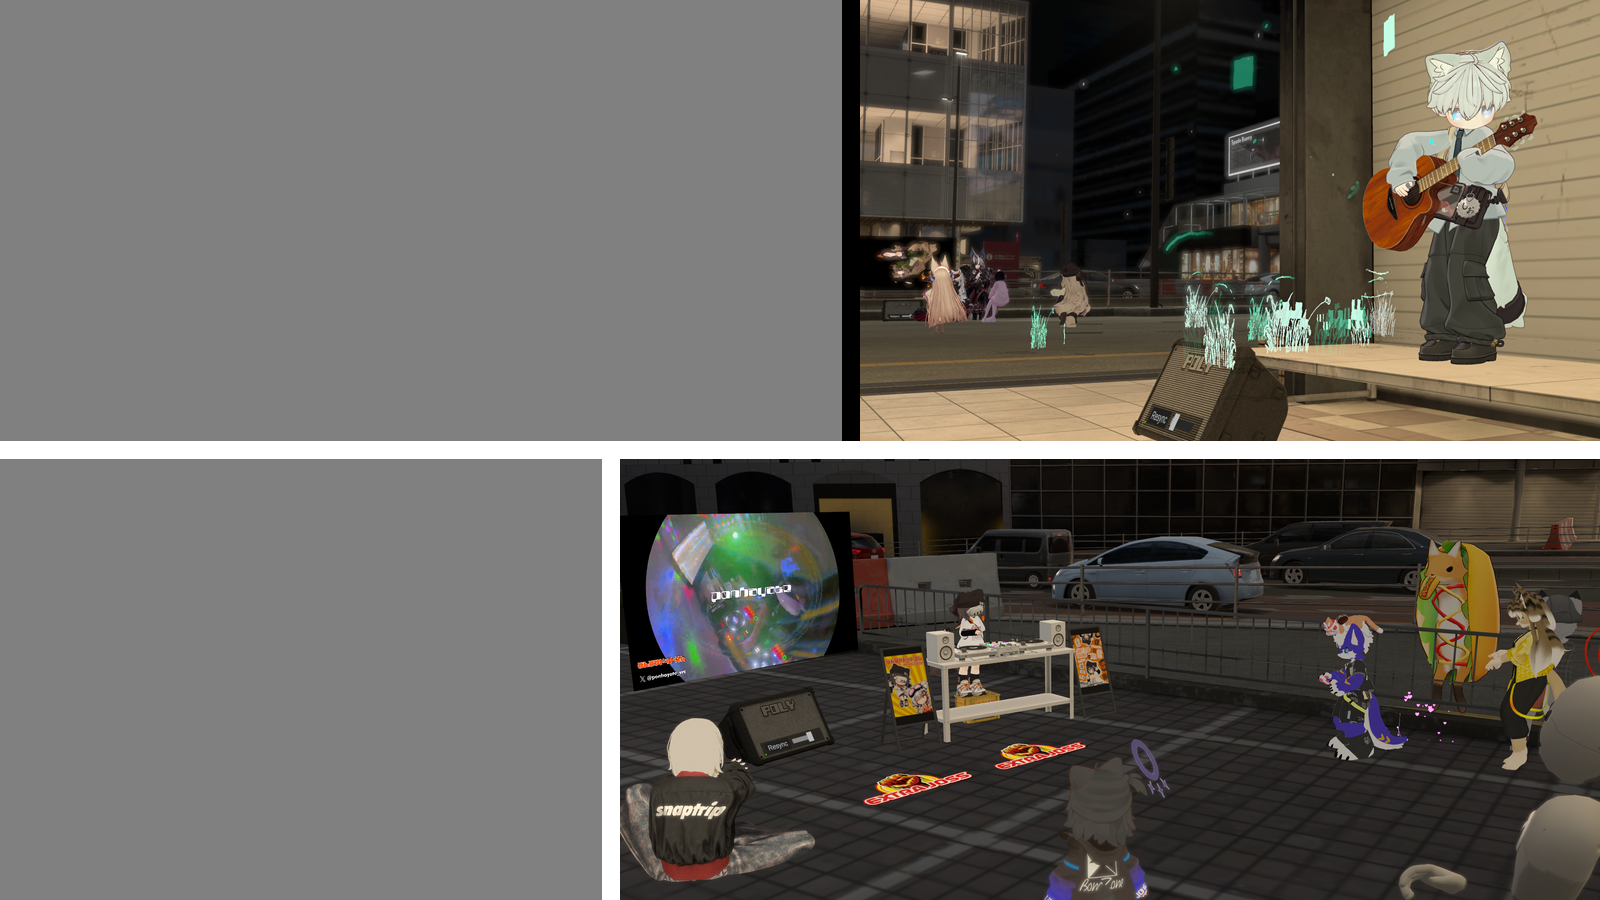
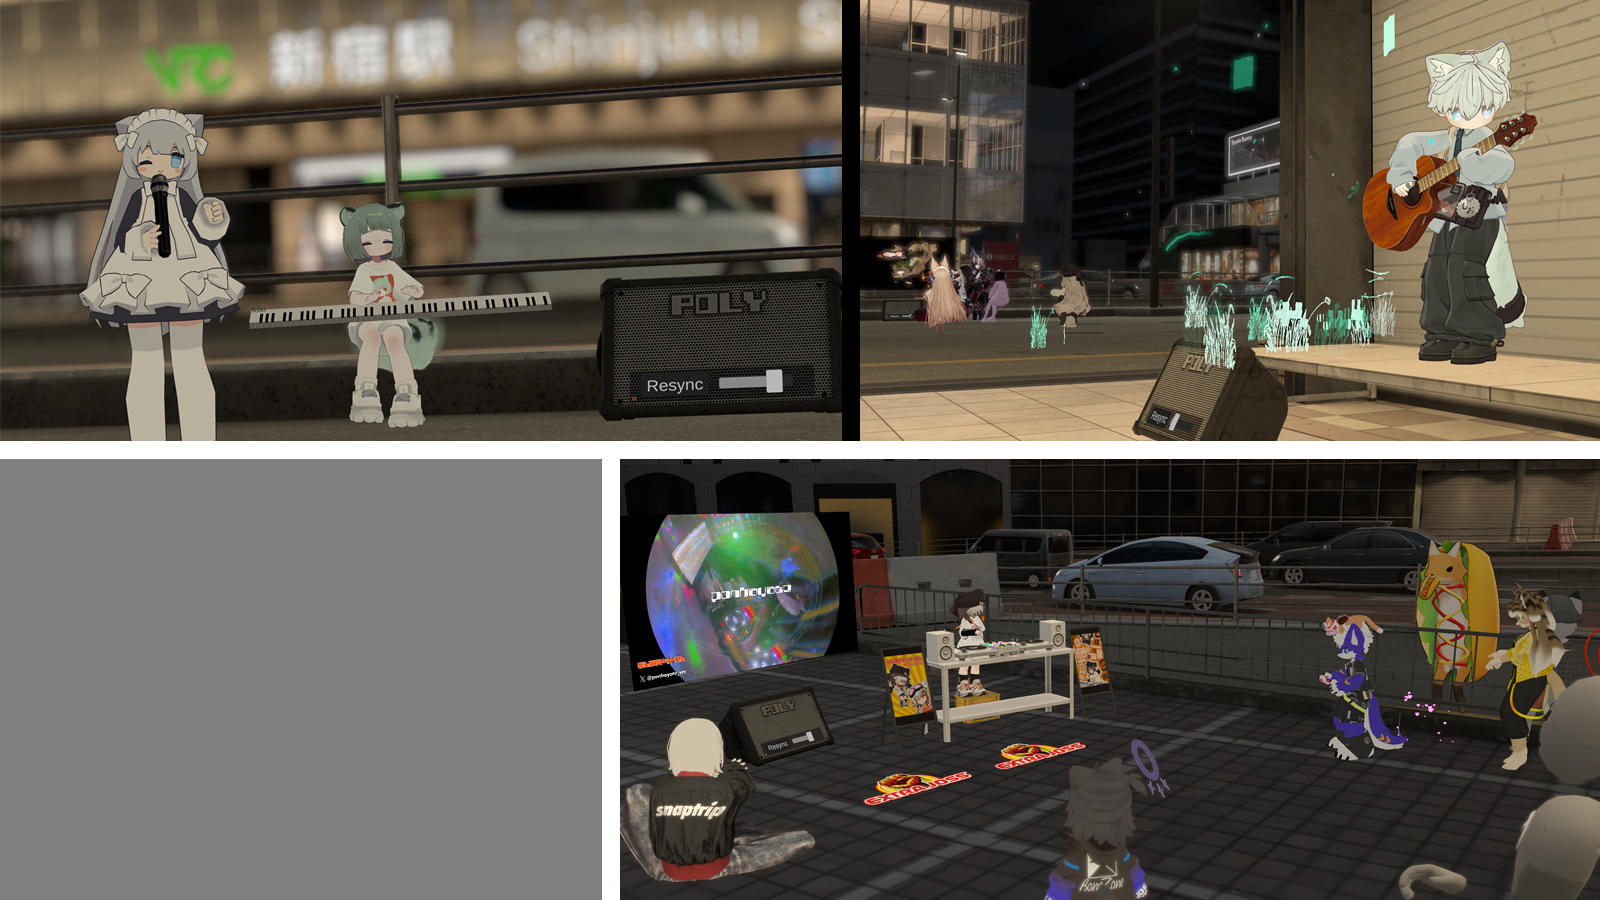
docs: 커뮤니티 갤러리 미디어 보강

Changed region(s): [[0.0, 0.0, 0.5312, 0.4978]]

diff --git a/README.ja.md b/README.ja.md
@@ -46,12 +46,12 @@
 </p>
 
 <p align="center">
-  <img src="./Docs/images/community-gallery.png" alt="ストリートライブの様子と今後追加するコミュニティ写真の掲載エリア" width="900">
+  <img src="./Docs/images/community-gallery.png" alt="3枚のストリートライブ写真と今後追加するコミュニティ写真の掲載エリア" width="900">
 </p>
 
 https://github.com/user-attachments/assets/9ec884f0-df47-49f0-b39f-327cdfda0ede
 
-<p align="center"><sub>動画提供：<a href="https://x.com/KixiVRC">@KixiVRC</a> · 写真提供：<a href="https://x.com/taque_0409">@taque_0409</a>, <a href="https://x.com/ponhayate_vrc">@ponhayate_vrc</a></sub></p>
+<p align="center"><sub>動画・写真提供：<a href="https://x.com/KixiVRC">@KixiVRC</a> · 写真提供：<a href="https://x.com/taque_0409">@taque_0409</a>, <a href="https://x.com/ponhayate_vrc">@ponhayate_vrc</a></sub></p>
 
 ---
 

diff --git a/README.en.md b/README.en.md
@@ -46,12 +46,12 @@
 </p>
 
 <p align="center">
-  <img src="./Docs/images/community-gallery.png" alt="A street performance with space reserved for more community photos" width="900">
+  <img src="./Docs/images/community-gallery.png" alt="Three street performance photos with space reserved for one more community photo" width="900">
 </p>
 
 https://github.com/user-attachments/assets/9ec884f0-df47-49f0-b39f-327cdfda0ede
 
-<p align="center"><sub>Video provided by <a href="https://x.com/KixiVRC">@KixiVRC</a> · Photos provided by <a href="https://x.com/taque_0409">@taque_0409</a>, <a href="https://x.com/ponhayate_vrc">@ponhayate_vrc</a></sub></p>
+<p align="center"><sub>Video and photo provided by <a href="https://x.com/KixiVRC">@KixiVRC</a> · Photos provided by <a href="https://x.com/taque_0409">@taque_0409</a>, <a href="https://x.com/ponhayate_vrc">@ponhayate_vrc</a></sub></p>
 
 ---
 

diff --git a/README.md b/README.md
@@ -46,12 +46,12 @@
 </p>
 
 <p align="center">
-  <img src="./Docs/images/community-gallery.png" alt="거리 공연 장면과 추후 추가할 커뮤니티 사진 영역" width="900">
+  <img src="./Docs/images/community-gallery.png" alt="세 장의 거리 공연 사진과 추후 추가할 커뮤니티 사진 영역" width="900">
 </p>
 
 https://github.com/user-attachments/assets/9ec884f0-df47-49f0-b39f-327cdfda0ede
 
-<p align="center"><sub>영상 제공: <a href="https://x.com/KixiVRC">@KixiVRC</a> · 사진 제공: <a href="https://x.com/taque_0409">@taque_0409</a>, <a href="https://x.com/ponhayate_vrc">@ponhayate_vrc</a></sub></p>
+<p align="center"><sub>영상·사진 제공: <a href="https://x.com/KixiVRC">@KixiVRC</a> · 사진 제공: <a href="https://x.com/taque_0409">@taque_0409</a>, <a href="https://x.com/ponhayate_vrc">@ponhayate_vrc</a></sub></p>
 
 ---
 
